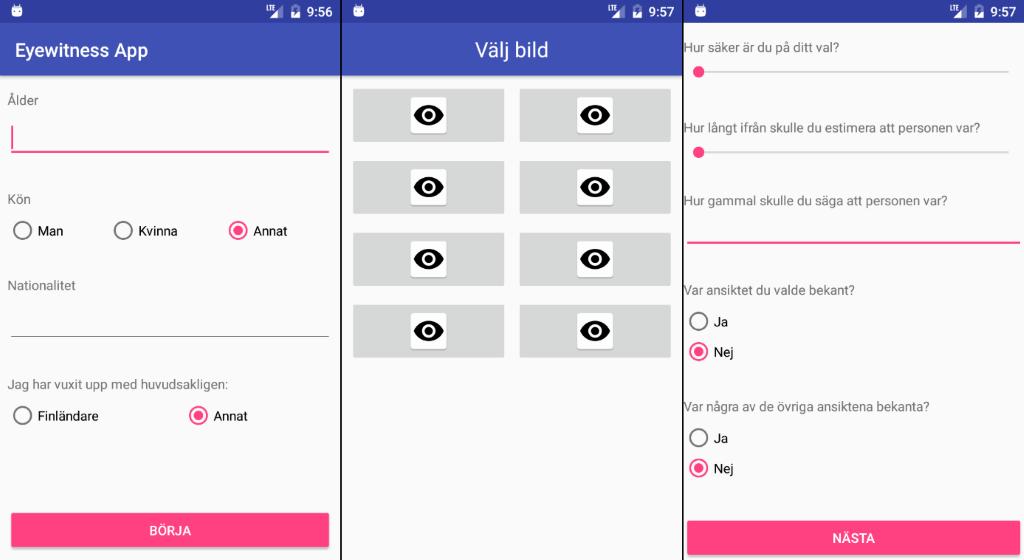
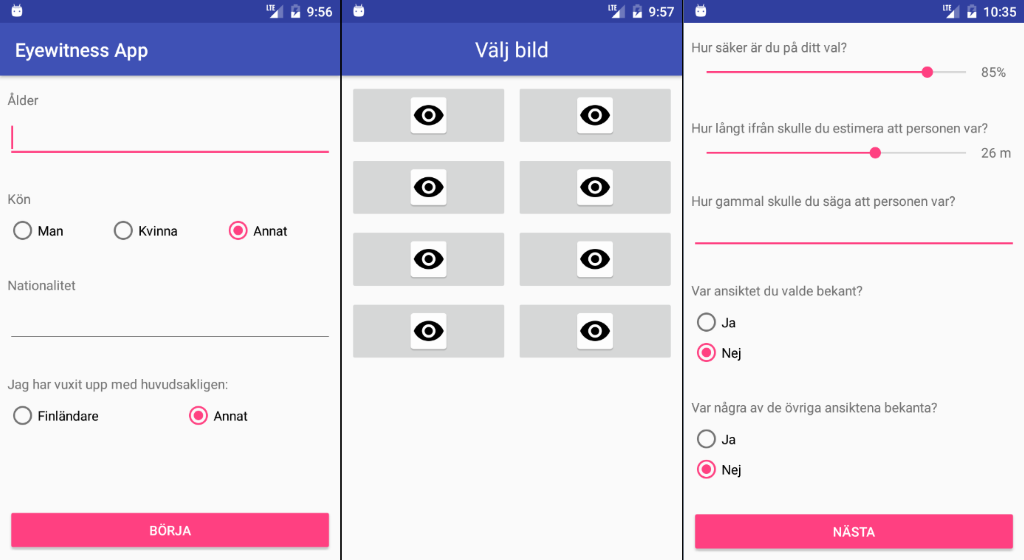
Seekbar text indicators

diff --git a/app/src/main/java/aggrathon/eyewitnessapp/QuestionsActivity.java b/app/src/main/java/aggrathon/eyewitnessapp/QuestionsActivity.java
@@ -6,6 +6,8 @@ import android.support.design.widget.Snackbar;
 import android.support.v7.app.AppCompatActivity;
 import android.support.v7.widget.Toolbar;
 import android.view.View;
+import android.widget.SeekBar;
+import android.widget.TextView;
 
 public class QuestionsActivity extends AppCompatActivity {
 
@@ -13,6 +15,32 @@ public class QuestionsActivity extends AppCompatActivity {
 	protected void onCreate(Bundle savedInstanceState) {
 		super.onCreate(savedInstanceState);
 		setContentView(R.layout.activity_questions);
+
+		final TextView sureText = (TextView)findViewById(R.id.sureText);
+		((SeekBar)findViewById(R.id.sureBar)).setOnSeekBarChangeListener(new SeekBar.OnSeekBarChangeListener() {
+			@Override
+			public void onProgressChanged(SeekBar seekBar, int i, boolean b) {
+				sureText.setText(i+"%");
+			}
+
+			@Override
+			public void onStartTrackingTouch(SeekBar seekBar) {}
+			@Override
+			public void onStopTrackingTouch(SeekBar seekBar) {}
+		});
+
+		final TextView distText = (TextView)findViewById(R.id.distText);
+		((SeekBar)findViewById(R.id.distBar)).setOnSeekBarChangeListener(new SeekBar.OnSeekBarChangeListener() {
+			@Override
+			public void onProgressChanged(SeekBar seekBar, int i, boolean b) {
+				distText.setText(i+" m");
+			}
+
+			@Override
+			public void onStartTrackingTouch(SeekBar seekBar) {}
+			@Override
+			public void onStopTrackingTouch(SeekBar seekBar) {}
+		});
 	}
 
 }
